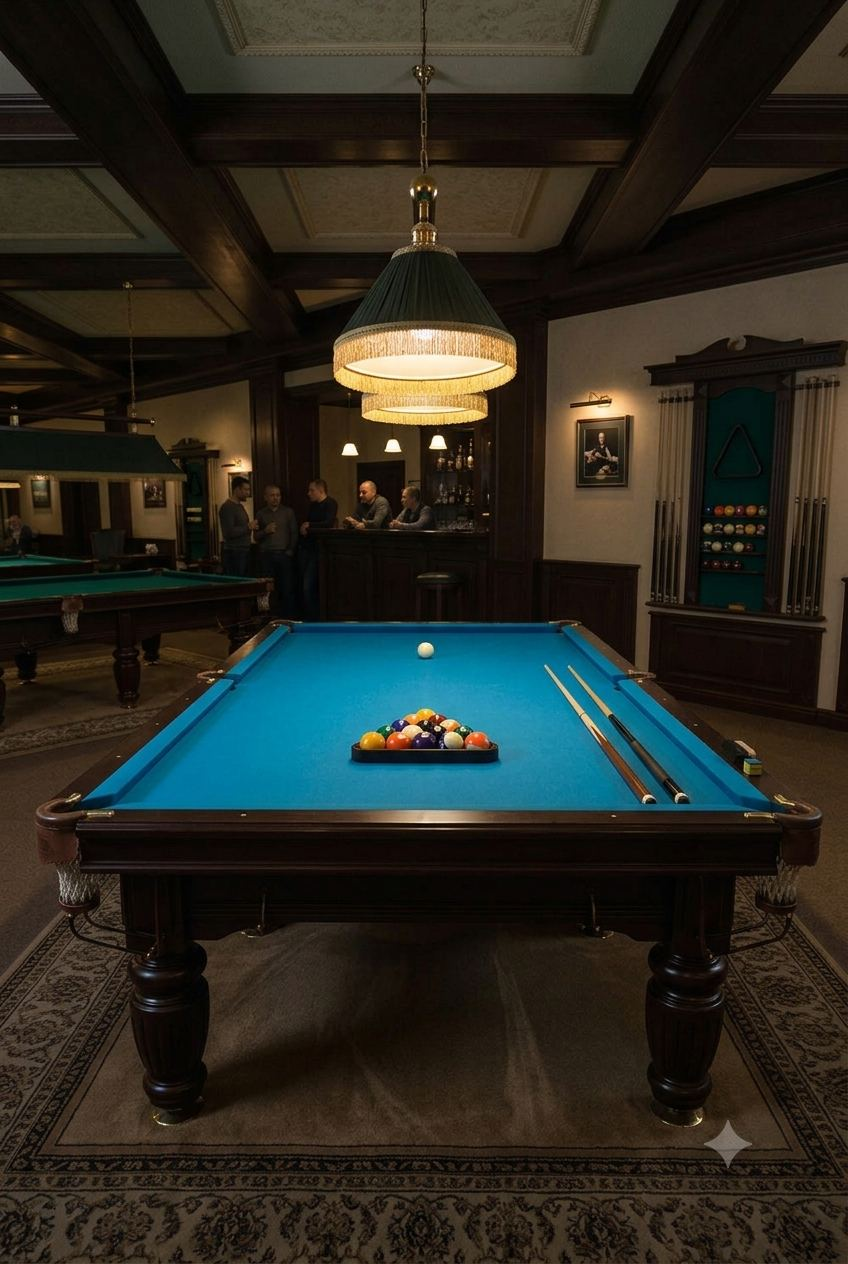
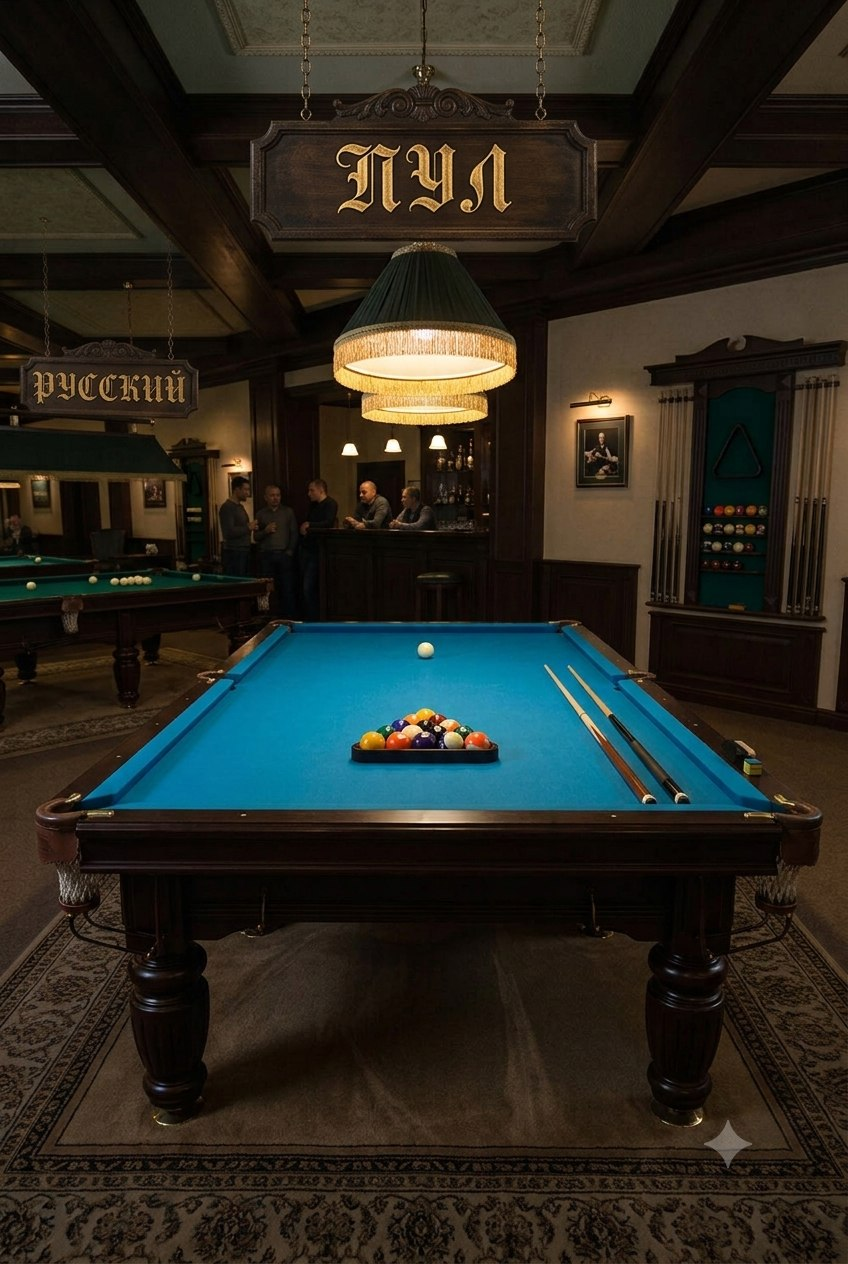
Light-switch table backgrounds and drop the redundant header title
- Swap in the new table photos (both tables visible with "РУССКИЙ" /
  "ПУЛ" signage, the active one lit) and dim the scene on load until
  the user picks a discipline, at which point a synthesized switch
  click (Web Audio API, no audio asset needed) plays and the table
  brightens over ~0.9s.
- Remove the "Твой бильярд" header title — now redundant since the
  photo itself carries the discipline signage — along with the
  now-unused CueExclamation component and title style.

diff --git a/src/BilliardsTracker.jsx b/src/BilliardsTracker.jsx
@@ -18,7 +18,7 @@ import {
 } from "./clubSync.js";
 import tableRussianPhoto from "./assets/table-russian.jpg";
 import tablePoolPhoto from "./assets/table-pool.jpg";
-import { COLORS, DICE_PIP_POS, DICE_LAYOUTS, POOL_PALETTE, GAME_TYPES, APP_TITLE, RUSSIAN_MODES, AVATAR_COLORS } from "./constants.js";
+import { COLORS, DICE_PIP_POS, DICE_LAYOUTS, POOL_PALETTE, GAME_TYPES, RUSSIAN_MODES, AVATAR_COLORS } from "./constants.js";
 import {
   uid,
   loadInitial,
@@ -30,6 +30,7 @@ import {
   buildKolhozSettlement,
 } from "./gameLogic.js";
 import Onboarding from "./Onboarding.jsx";
+import { playSwitchClick } from "./sound.js";
 
 const RatingChart = lazy(() => import("./RatingChart.jsx"));
 
@@ -65,47 +66,6 @@ function Die({ value = 1, size = 46 }) {
           </g>
         );
       })}
-    </svg>
-  );
-}
-
-function CueExclamation({ height = 34 }) {
-  const width = Math.round(height * 0.42);
-  const shaftH = 15;
-  const wrapH = 8;
-  return (
-    <svg
-      width={width}
-      height={height}
-      viewBox="0 0 16 40"
-      style={{ display: "inline-block", verticalAlign: "-5px", marginLeft: "3px", transform: "rotate(12deg)" }}
-      aria-hidden="true"
-    >
-      <defs>
-        <linearGradient id="excShaftGrad" x1="0" y1="0" x2="0" y2="1">
-          <stop offset="0%" stopColor="#FBF4E4" />
-          <stop offset="100%" stopColor="#E4D2AE" />
-        </linearGradient>
-        <linearGradient id="excWrapGrad" x1="0" y1="0" x2="0" y2="1">
-          <stop offset="0%" stopColor="#6E2733" />
-          <stop offset="100%" stopColor="#38121A" />
-        </linearGradient>
-        <radialGradient id="excBallGrad" cx="35%" cy="30%" r="75%">
-          <stop offset="0%" stopColor="#FFFDF6" />
-          <stop offset="60%" stopColor="#EDE0C8" />
-          <stop offset="100%" stopColor="#C9B98F" />
-        </radialGradient>
-      </defs>
-      <rect x="6.4" y="0" width="3.2" height={shaftH} rx="1.4" fill="url(#excShaftGrad)" />
-      <rect x="6" y={shaftH} width="4" height={wrapH} rx="1" fill="url(#excWrapGrad)" />
-      {[1.6, 3.6, 5.6].map((dy) => (
-        <React.Fragment key={dy}>
-          <circle cx="7" cy={shaftH + dy} r="0.35" fill="#00000060" />
-          <circle cx="8.6" cy={shaftH + dy + 1} r="0.35" fill="#00000060" />
-        </React.Fragment>
-      ))}
-      <circle cx="8" cy="33" r="6.6" fill="url(#excBallGrad)" stroke="#00000033" strokeWidth="0.6" />
-      <circle cx="6" cy="30.5" r="2" fill="#ffffffaa" />
     </svg>
   );
 }
@@ -486,36 +446,47 @@ function Confetti({ active }) {
     </div>
   );
 }
-function TableArt({ gameType }) {
+function TableArt({ gameType, lit }) {
   const isPool = gameType === "pool";
 
   return (
     <div style={{ position: "absolute", inset: 0, overflow: "hidden" }} aria-hidden="true">
-      {/* real table photo, cross-fades between disciplines */}
+      {/* table starts dim ("light off") and brightens on the first discipline
+          pick, like someone flicking the room lights on */}
       <div
         style={{
           position: "absolute",
           inset: 0,
-          backgroundImage: `url(${tableRussianPhoto})`,
-          backgroundSize: "cover",
-          backgroundPosition: "center 42%",
-          opacity: isPool ? 0 : 1,
-          transition: "opacity 0.6s ease",
-          animation: "tableKenBurns 22s ease-in-out infinite alternate",
+          filter: lit ? "brightness(1) saturate(1)" : "brightness(0.22) saturate(0.6)",
+          transition: "filter 0.9s ease",
         }}
-      />
-      <div
-        style={{
-          position: "absolute",
-          inset: 0,
-          backgroundImage: `url(${tablePoolPhoto})`,
-          backgroundSize: "cover",
-          backgroundPosition: "center 42%",
-          opacity: isPool ? 1 : 0,
-          transition: "opacity 0.6s ease",
-          animation: "tableKenBurns 22s ease-in-out infinite alternate",
-        }}
-      />
+      >
+        {/* real table photo, cross-fades between disciplines */}
+        <div
+          style={{
+            position: "absolute",
+            inset: 0,
+            backgroundImage: `url(${tableRussianPhoto})`,
+            backgroundSize: "cover",
+            backgroundPosition: "center 42%",
+            opacity: isPool ? 0 : 1,
+            transition: "opacity 0.6s ease",
+            animation: "tableKenBurns 22s ease-in-out infinite alternate",
+          }}
+        />
+        <div
+          style={{
+            position: "absolute",
+            inset: 0,
+            backgroundImage: `url(${tablePoolPhoto})`,
+            backgroundSize: "cover",
+            backgroundPosition: "center 42%",
+            opacity: isPool ? 1 : 0,
+            transition: "opacity 0.6s ease",
+            animation: "tableKenBurns 22s ease-in-out infinite alternate",
+          }}
+        />
+      </div>
       {/* vignette so header/cards stay legible over a busy photo */}
       <div
         style={{
@@ -600,22 +571,6 @@ function makeStyles(dark) {
       fontSize: "12px",
       fontWeight: 600,
       textAlign: "center",
-    },
-    title: {
-      fontFamily: "'Fraunces', serif",
-      fontOpticalSizing: "auto",
-      fontStyle: "italic",
-      fontWeight: 600,
-      fontSize: "34px",
-      letterSpacing: "0.6px",
-      margin: 0,
-      display: "inline-block",
-      backgroundImage: "linear-gradient(120deg, #FBF0D2 0%, #E7CE93 45%, #C08A3E 75%, #F1DDA6 100%)",
-      backgroundClip: "text",
-      WebkitBackgroundClip: "text",
-      WebkitTextFillColor: "transparent",
-      color: "#F8F1DE",
-      filter: "drop-shadow(0 2px 10px rgba(0,0,0,0.55))",
     },
     gameTypeSwitch: {
       display: "inline-flex",
@@ -809,6 +764,7 @@ export default function BilliardsTracker() {
   const [celebrate, setCelebrate] = useState(false);
   const [isOffline, setIsOffline] = useState(typeof navigator !== "undefined" && !navigator.onLine);
   const [showOnboarding, setShowOnboarding] = useState(false);
+  const [tableLit, setTableLit] = useState(false);
   const [rulesOpen, setRulesOpen] = useState(false);
   const [openRuleKey, setOpenRuleKey] = useState(null);
   const [ballValue, setBallValue] = useState(5);
@@ -1631,6 +1587,8 @@ export default function BilliardsTracker() {
 
   const setGameType = (type) => {
     haptic("light");
+    playSwitchClick();
+    setTableLit(true);
     updateData((prev) => ({ ...prev, gameType: type }));
   };
 
@@ -1929,7 +1887,7 @@ export default function BilliardsTracker() {
       `}</style>
 
       <div style={styles.outerBg}>
-        <TableArt gameType={data.gameType} />
+        <TableArt gameType={data.gameType} lit={tableLit} />
         <div style={{ ...styles.outerOverlay, ...(activeGame ? { background: "rgba(4,10,7,0.45)" } : {}) }} />
       </div>
 
@@ -1941,10 +1899,6 @@ export default function BilliardsTracker() {
         )}
         {!immersive && (
           <header style={styles.header} className="no-print">
-            <h1 style={styles.title} key={data.gameType || "russian"} className="tab-fade">
-              {APP_TITLE[data.gameType || "russian"]}
-              <CueExclamation height={30} />
-            </h1>
             <div style={styles.gameTypeSwitch} role="tablist" aria-label="Дисциплина">
               <button
                 type="button"

diff --git a/src/sound.js b/src/sound.js
@@ -1,0 +1,33 @@
+let audioCtx = null;
+
+// Two short percussive ticks (a sharp high click, then a lower settle click)
+// approximate a real light-switch toggle without needing an audio asset.
+export function playSwitchClick() {
+  try {
+    const Ctx = window.AudioContext || window.webkitAudioContext;
+    if (!Ctx) return;
+    if (!audioCtx) audioCtx = new Ctx();
+    if (audioCtx.state === "suspended") audioCtx.resume();
+    const ctx = audioCtx;
+    const now = ctx.currentTime;
+
+    const tick = (time, freq, gainPeak, dur) => {
+      const osc = ctx.createOscillator();
+      const gain = ctx.createGain();
+      osc.type = "square";
+      osc.frequency.setValueAtTime(freq, time);
+      gain.gain.setValueAtTime(0, time);
+      gain.gain.linearRampToValueAtTime(gainPeak, time + 0.002);
+      gain.gain.exponentialRampToValueAtTime(0.001, time + dur);
+      osc.connect(gain);
+      gain.connect(ctx.destination);
+      osc.start(time);
+      osc.stop(time + dur + 0.01);
+    };
+
+    tick(now, 2200, 0.18, 0.03);
+    tick(now + 0.045, 1300, 0.12, 0.05);
+  } catch (e) {
+    // Web Audio unavailable — silently skip, this is a cosmetic touch
+  }
+}
